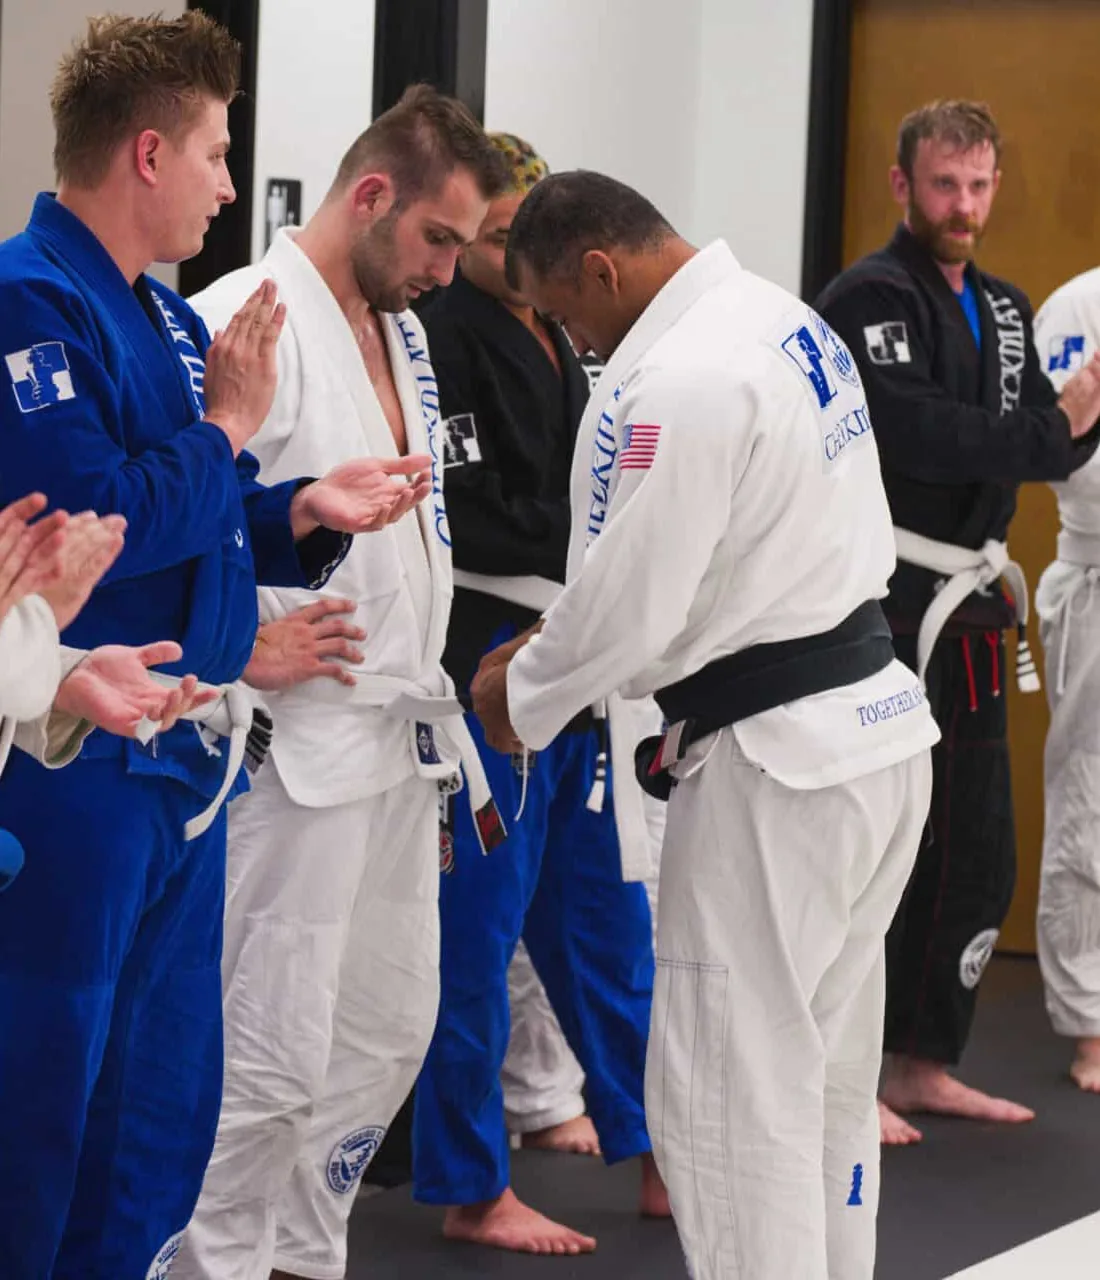
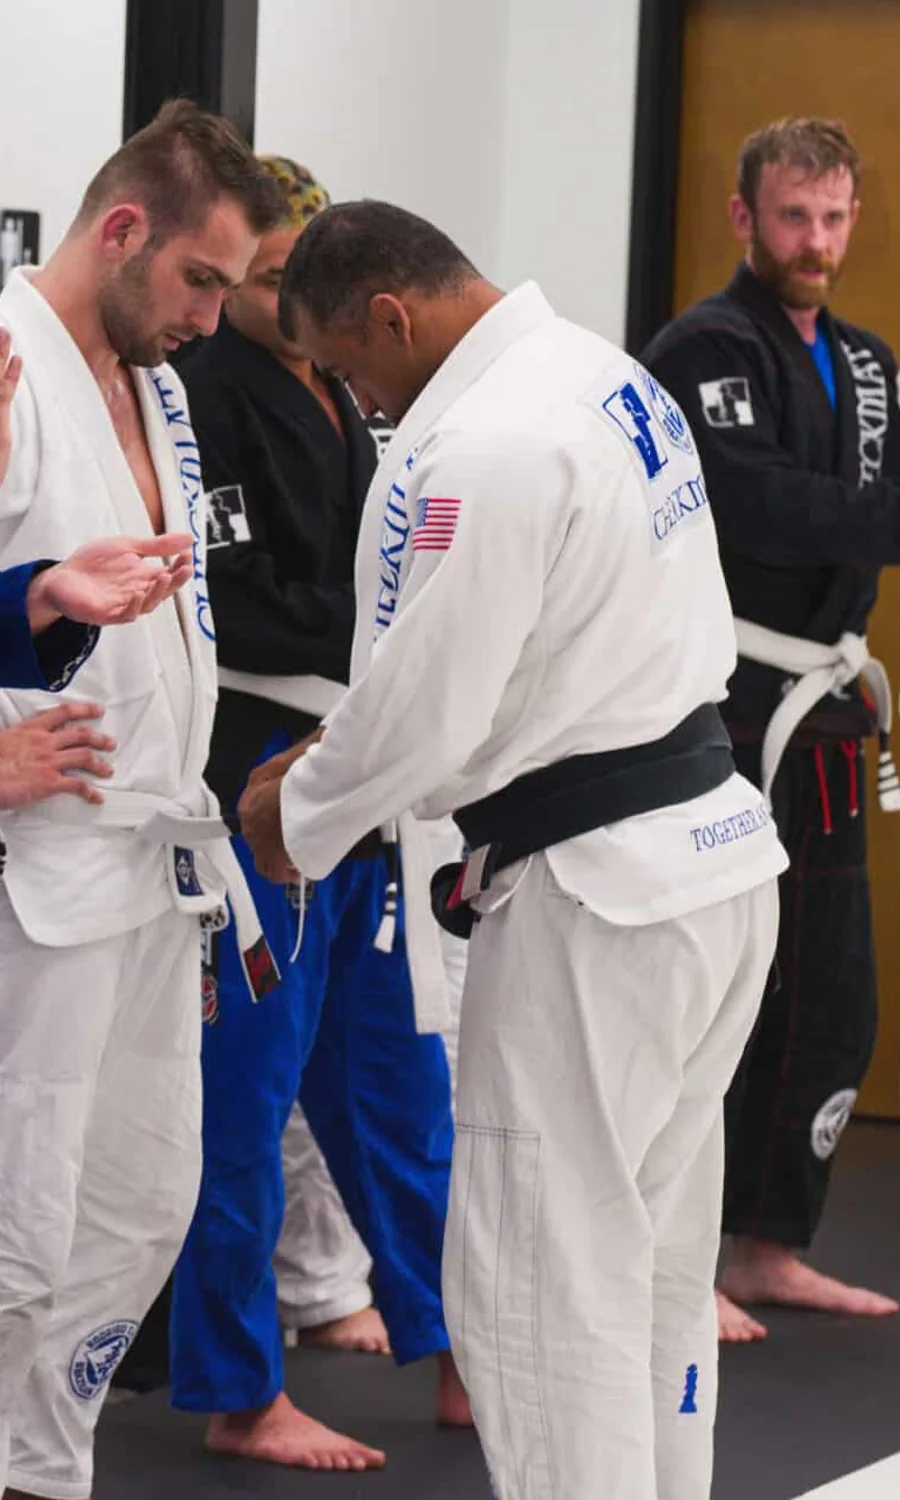
feat(site): the home hero is one viewport tall, and reframed
Height
- The hero is `min-h-[100svh]`, not 100vh: on iOS the vh unit includes the
  address bar, so a 100vh hero pushes its own foot off the screen. The section
  is a flex column — the headline block centres itself, the record strip parks
  on the floor — and the new `t-hero` utility is sized with
  min(5.1vw, 8.2vh) so whichever axis is tighter wins and a short laptop still
  holds the whole first screen without a height media query.
- Below md the review card collapses to a band (score, stars, count, one line
  of quote); the full card is 321px of an 844px screen on its own, and the CTAs
  now sit on one row.
- Measured at 1920×1080, 1512×945, 1440×900, 1440×780, 1366×720, 1280×800,
  1024×768, 768×1024, 430×932 and 390×844: the hero equals the viewport exactly
  and nothing overflows it. Under ~700px of viewport height the content cannot
  fit and min-h lets the hero grow rather than clip — the safe failure.

Framing
- hero-bg.webp keeps the source's own 1.6:1 framing at 2000×1250 rather than
  being pre-cropped to 1.78:1. A 100svh hero on most laptops IS 1.6:1, so
  cropping ahead of time only discarded pixels object-cover would have used.
- hero-bg-sm.webp is a portrait crop placed around the subject — the black belt
  being greeted sits at about 55% across, so the crop keeps him in frame instead
  of letting object-cover slice him out.
- object-position is 50% 38% on desktop and 54% 30% on a phone, which puts that
[…]

diff --git a/src/site/pages/HomePage.tsx b/src/site/pages/HomePage.tsx
@@ -28,18 +28,20 @@ function Hero() {
   const { openModal } = useModal()
 
   return (
-    <section className="relative isolate overflow-hidden bg-ink">
-      {/* Ground */}
+    <section className="relative isolate flex min-h-[100svh] flex-col overflow-hidden bg-ink">
+      {/* Ground. The desktop file keeps the source's own 1.6:1 framing, which is
+          what a 100svh hero measures on most laptops, so object-cover barely
+          crops. The mobile file is a portrait crop placed around the subject. */}
       <picture>
         <source media="(max-width: 767px)" srcSet="/site/home/hero-bg-sm.webp" />
         <img
           src="/site/home/hero-bg.webp"
           alt=""
           aria-hidden="true"
-          width={2048}
-          height={1152}
+          width={2000}
+          height={1250}
           fetchPriority="high"
-          className="absolute inset-0 -z-20 h-full w-full object-cover object-[52%_38%]"
+          className="absolute inset-0 -z-20 h-full w-full object-cover object-[54%_30%] md:object-[50%_38%]"
         />
       </picture>
 
@@ -63,63 +65,77 @@ function Hero() {
         }}
       />
 
-      {/* The masthead sits above this section, which is pulled up behind it,
-          so the top padding has to carry the masthead height too. */}
-      <div className="wrap pb-10 pt-[calc(4rem+2.75rem)] md:pb-12 md:pt-[calc(74px+3.5rem)]">
-        <div className="grid grid-cols-1 items-end gap-10 lg:grid-cols-[minmax(0,1fr)_23rem] lg:gap-14">
-          <div className="min-w-0">
-            <Reveal>
-              <Tag invert>
-                {ACADEMY.city}, {ACADEMY.state} &nbsp;·&nbsp; Est. {ACADEMY.founded}
-              </Tag>
-            </Reveal>
+      {/* The masthead sits above this section, which is pulled up behind it, so
+          the top padding has to carry the masthead height too. The column then
+          centres its own content and parks the record strip on the floor. */}
+      <div className="wrap flex flex-1 flex-col pb-[clamp(1.5rem,3.5vh,2.5rem)] pt-[calc(4rem+clamp(1rem,3vh,2.5rem))] md:pt-[calc(74px+clamp(1rem,3vh,3rem))]">
+        <div className="flex flex-1 flex-col justify-center">
+          <div className="grid grid-cols-1 items-end gap-[clamp(1.1rem,3.4vh,2.5rem)] lg:grid-cols-[minmax(0,1fr)_23rem] lg:gap-14">
+            <div className="min-w-0">
+              <Reveal>
+                <Tag invert>
+                  {ACADEMY.city}, {ACADEMY.state} &nbsp;·&nbsp; Est. {ACADEMY.founded}
+                </Tag>
+              </Reveal>
 
-            <MaskHeading
-              as="h1"
-              text={'No ego.\nNo drama.\nJust Jiu-Jitsu.'}
-              className="t-mega mt-6 text-white"
-            />
+              <MaskHeading
+                as="h1"
+                text={'No ego.\nNo drama.\nJust Jiu-Jitsu.'}
+                className="t-hero mt-[clamp(1rem,2.5vh,1.5rem)] text-white"
+              />
 
-            <Reveal delay={120}>
-              {/* Smaller than the standfirst elsewhere, and directly under the
-                  headline, so the two read as one block. */}
-              <p className="mt-6 max-w-lg text-[0.98rem] leading-[1.62] text-white/72 md:text-[1.02rem]">
-                A Brazilian Jiu-Jitsu academy in north-west Austin where a first-timer and a
-                world champion warm up in the same line. Beginners are the point, not an
-                afterthought.
-              </p>
-              <div className="mt-8 flex flex-wrap gap-3">
-                <Btn onClick={openModal}>Book a free trial</Btn>
-                <Btn href="/schedule" variant="ghost-invert" icon="calendar">
-                  See the schedule
-                </Btn>
-              </div>
+              <Reveal delay={120}>
+                {/* Smaller than the standfirst elsewhere, and directly under the
+                    headline, so the two read as one block. */}
+                <p className="mt-[clamp(0.85rem,2.2vh,1.5rem)] max-w-lg text-[0.9rem] leading-[1.55] text-white/72 md:text-[1.02rem] md:leading-[1.6]">
+                  A Brazilian Jiu-Jitsu academy in north-west Austin where a first-timer and a
+                  world champion warm up in the same line. Beginners are the point, not an
+                  afterthought.
+                </p>
+                <div className="mt-[clamp(1.25rem,3vh,2rem)] flex flex-wrap gap-2.5 sm:gap-3">
+                  <Btn onClick={openModal} className="!px-4 sm:!px-6">
+                    Book a free trial
+                  </Btn>
+                  <Btn
+                    href="/schedule"
+                    variant="ghost-invert"
+                    icon="calendar"
+                    className="!px-4 sm:!px-6"
+                  >
+                    Schedule
+                  </Btn>
+                </div>
+              </Reveal>
+            </div>
+
+            <Reveal delay={180} className="min-w-0 lg:justify-self-stretch">
+              <GoogleRating />
             </Reveal>
           </div>
-
-          <Reveal delay={180} className="min-w-0 lg:justify-self-stretch">
-            <GoogleRating />
-          </Reveal>
         </div>
 
-        {/* The record strip, on the same dark ground. */}
-        <Rule invert className="mt-12 md:mt-14" />
-        <dl className="grid grid-cols-2 gap-x-8 gap-y-7 pt-7 md:grid-cols-4">
-          {[
-            { v: <Counter to={PROOF.students} suffix="+" />, l: 'Students on the mats' },
-            { v: <Counter to={PROOF.yearsCoaching} suffix=" yr" />, l: 'Coaching, since 1996' },
-            { v: 'UFC BJJ', l: 'Champion coached here' },
-            { v: <Counter to={31} />, l: 'Classes every week' },
-          ].map((s, i) => (
-            <Reveal key={i} delay={i * 70}>
-              <dt className="label mb-3 text-white/35">{String(i + 1).padStart(2, '0')}</dt>
-              <dd>
-                <span className="display-line t-sub nums block text-white">{s.v}</span>
-                <span className="t-body mt-1.5 block text-white/60">{s.l}</span>
-              </dd>
-            </Reveal>
-          ))}
-        </dl>
+        {/* The record strip, on the floor of the first screen. */}
+        <div className="mt-[clamp(1.75rem,4vh,3.5rem)]">
+          <Rule invert />
+          <dl className="grid grid-cols-2 gap-x-8 gap-y-[clamp(1rem,2.5vh,1.75rem)] pt-[clamp(1.25rem,3vh,1.75rem)] md:grid-cols-4">
+            {[
+              { v: <Counter to={PROOF.students} suffix="+" />, l: 'Students on the mats' },
+              { v: <Counter to={PROOF.yearsCoaching} suffix=" yr" />, l: 'Coaching, since 1996' },
+              { v: 'UFC BJJ', l: 'Champion coached here' },
+              { v: <Counter to={31} />, l: 'Classes every week' },
+            ].map((s, i) => (
+              <Reveal key={i} delay={i * 70}>
+                <dt className="label mb-2.5 text-white/35">{String(i + 1).padStart(2, '0')}</dt>
+                <dd>
+                  <span className="display-line t-sub nums block text-white">{s.v}</span>
+                  <span className="mt-1.5 block text-[0.9rem] leading-[1.5] text-white/60">
+                    {s.l}
+                  </span>
+                </dd>
+              </Reveal>
+            ))}
+          </dl>
+        </div>
       </div>
     </section>
   )

diff --git a/src/site/components/GoogleRating.tsx b/src/site/components/GoogleRating.tsx
@@ -86,7 +86,7 @@ export function GoogleRating({ className = '' }: { className?: string }) {
 
   return (
     <figure
-      className={`w-full max-w-sm border border-white/15 bg-ink/72 p-6 backdrop-blur-md md:p-7 lg:max-w-none ${className}`}
+      className={`w-full max-w-sm border border-white/15 bg-ink/72 p-4 backdrop-blur-md md:p-7 lg:max-w-none ${className}`}
     >
       <div className="flex items-center justify-between gap-4">
         <span className="label-sm flex items-center gap-2.5 text-white/70">
@@ -96,33 +96,46 @@ export function GoogleRating({ className = '' }: { className?: string }) {
         <span className="label-sm nums text-white/40">{PROOF.googleReviews}+</span>
       </div>
 
-      <div className="mt-5 flex items-end gap-4">
-        <span className="display-line text-white" style={{ fontSize: 'clamp(2.6rem,4vw,3.4rem)' }}>
+      <div className="mt-3 flex items-end gap-4 md:mt-5">
+        <span
+          className="display-line text-white"
+          style={{ fontSize: 'clamp(2rem,4vw,3.4rem)' }}
+        >
           {PROOF.googleRating}
         </span>
-        <div className="pb-1.5">
+        <div className="pb-1 md:pb-1.5">
           <Stars size={14} className="text-white" />
           <span className="label-sm mt-2 block text-white/45">out of five</span>
         </div>
+        {/* On a phone the footer's link has nowhere of its own to go. */}
+        <a
+          href={ACADEMY.mapsUrl}
+          target="_blank"
+          rel="noreferrer noopener"
+          className="label-sm ml-auto inline-flex items-center gap-2 pb-1 text-white/70 transition-colors hover:text-white md:hidden [--icon-accent:currentColor]"
+        >
+          Read all
+          <Icon name="arrow" size={14} />
+        </a>
       </div>
 
-      {/* A fixed frame, in two parts of their own fixed height. The quote is
-          clamped as a belt-and-braces measure; the trim above is what actually
-          guarantees it. */}
+      {/* Fixed height, contents centred: the five quotes run one to three lines,
+          and centring shares the slack instead of leaving a hole above the
+          attribution on the short ones. One line on a phone, three above it —
+          either way the height is fixed, so the card never resizes the hero. */}
       <div
-        className="mt-6 transition-opacity"
+        className="mt-3 transition-opacity md:mt-6"
         style={{ opacity: visible ? 1 : 0, transitionDuration: `${FADE_MS}ms` }}
       >
-        {/* Fixed height, contents centred: the five quotes run one to three
-            lines, and centring shares the slack instead of leaving a hole above
-            the attribution on the short ones. */}
-        <blockquote className="flex h-[4.35rem] items-center overflow-hidden text-[0.92rem] leading-[1.55] text-white/80">
-          <p className="line-clamp-3">&ldquo;{quote}&rdquo;</p>
+        <blockquote className="flex h-[1.45rem] items-center overflow-hidden text-[0.86rem] leading-[1.45] text-white/80 md:h-[4.35rem] md:text-[0.92rem] md:leading-[1.55]">
+          <p className="line-clamp-1 md:line-clamp-3">&ldquo;{quote}&rdquo;</p>
         </blockquote>
-        <figcaption className="label-sm mt-2.5 h-[0.7rem] text-white/45">{review.name}</figcaption>
+        <figcaption className="label-sm mt-2 h-[0.7rem] text-white/45 md:mt-2.5">
+          {review.name}
+        </figcaption>
       </div>
 
-      <div className="mt-6 flex items-center justify-between gap-4 border-t border-white/12 pt-5">
+      <div className="mt-6 hidden items-center justify-between gap-4 border-t border-white/12 pt-5 md:flex">
         <Faces />
         <a
           href={ACADEMY.mapsUrl}

diff --git a/src/site/components/scroll.ts b/src/site/components/scroll.ts
@@ -24,6 +24,21 @@ export function useScrollReveals(): void {
       return
     }
 
+    // Anything already on the first screen reveals on load, staggered. Without
+    // this, a block sitting right on the trigger line — the hero's record strip
+    // at the foot of a 100svh hero, for instance — stays at zero opacity until
+    // the visitor happens to scroll, which reads as a hole in the design.
+    const onFirstScreen: HTMLElement[] = []
+    const rest: HTMLElement[] = []
+    for (const el of nodes()) {
+      const rect = el.getBoundingClientRect()
+      if (rect.top < window.innerHeight * 0.97) onFirstScreen.push(el)
+      else rest.push(el)
+    }
+    onFirstScreen.forEach((el, i) => {
+      window.setTimeout(() => el.classList.add('is-in'), 90 + i * 55)
+    })
+
     // Fallback first: whatever happens to GSAP below, these fire.
     const io = new IntersectionObserver(
       (entries) => {
@@ -35,7 +50,7 @@ export function useScrollReveals(): void {
       },
       { rootMargin: '0px 0px -12% 0px', threshold: 0.06 },
     )
-    nodes().forEach((el) => io.observe(el))
+    rest.forEach((el) => io.observe(el))
 
     let killed = false
     let cleanupGsap: (() => void) | undefined
@@ -50,7 +65,7 @@ export function useScrollReveals(): void {
         gsap.registerPlugin(ScrollTrigger)
         // GSAP takes over: same class, but batched and with proper refresh
         // handling for images that resize the document as they decode.
-        ScrollTrigger.batch(nodes(), {
+        ScrollTrigger.batch(rest, {
           start: 'top 88%',
           once: true,
           batchMax: 6,

diff --git a/src/site/site.css b/src/site/site.css
@@ -155,6 +155,16 @@
   line-height: 0.9;
   letter-spacing: -0.024em;
 }
+/* The hero headline. Sized against BOTH axes: on a short laptop screen a
+   headline that only answers to viewport width pushes the record strip out of a
+   100svh hero. min() lets whichever axis is tighter win, so the first screen
+   always holds its contents without a single height media query. */
+@utility t-hero {
+  font-size: clamp(2rem, min(5.1vw, 8.2vh), 4.35rem);
+  line-height: 0.9;
+  letter-spacing: -0.024em;
+}
+
 @utility t-display {
   font-size: clamp(1.95rem, 4vw, 3.4rem);
   line-height: 0.9;

diff --git a/src/site/components/MaskHeading.tsx b/src/site/components/MaskHeading.tsx
@@ -79,6 +79,13 @@ export function MaskHeading({
       }
     }
 
+    // Already on the first screen: play immediately rather than waiting for a
+    // scroll that may never come.
+    if (host.getBoundingClientRect().top < window.innerHeight * 0.97) {
+      void play()
+      return
+    }
+
     const io = new IntersectionObserver(
       (entries) => {
         for (const e of entries) {

diff --git a/src/site/README.md b/src/site/README.md
@@ -172,6 +172,30 @@ panels that trade width, so five rooms cost one screen rather than two. Below
 `md` there is no hover to lean on, so the panels stack and open on tap — never
 make a phone user guess at a hover.
 
+**The hero is one viewport tall.** `min-h-[100svh]`, not `100vh`: on iOS the
+`vh` unit includes the address bar, so a `100vh` hero has its own foot pushed
+off the screen. The section is a flex column — the headline block centres itself
+and the record strip parks on the floor — and `t-hero` is sized with
+`min(5.1vw, 8.2vh)`, so on a short laptop the axis that is tighter wins and the
+first screen holds its contents without a single height media query.
+
+Verified at 1920×1080, 1512×945, 1440×900, 1440×780, 1366×720, 1280×800,
+1024×768, 768×1024, 430×932 and 390×844: the hero measures the viewport exactly
+and nothing overflows it. Below about 700px of viewport height (a 360×640
+handset) the content cannot fit, and `min-h` lets the hero grow rather than
+clipping anything — growing is the safe failure here.
+
+Below `md` the review card collapses to a band — score, stars, count, one line
+of quote — because the full card is 321px of a 844px screen on its own.
+
+⚠ **Anything on the first screen has to reveal on load, not on scroll.**
+The shared observer used `top 88%` as its trigger, which is right for a section
+further down the page and wrong for the foot of a 100svh hero: the record strip
+landed 2px inside the line and sat at zero opacity until the visitor scrolled.
+`components/scroll.ts` now splits the nodes at boot — anything whose top is
+within 97% of the viewport reveals immediately, staggered — and `MaskHeading`
+does the same for a heading already in view.
+
 ⚠ **The hero's review card must live in a fixed track and a fixed frame.**
 The five quotes it cycles through run from 30 to 166 characters. Two separate
 things moved the page because of that, and only the first is obvious:
